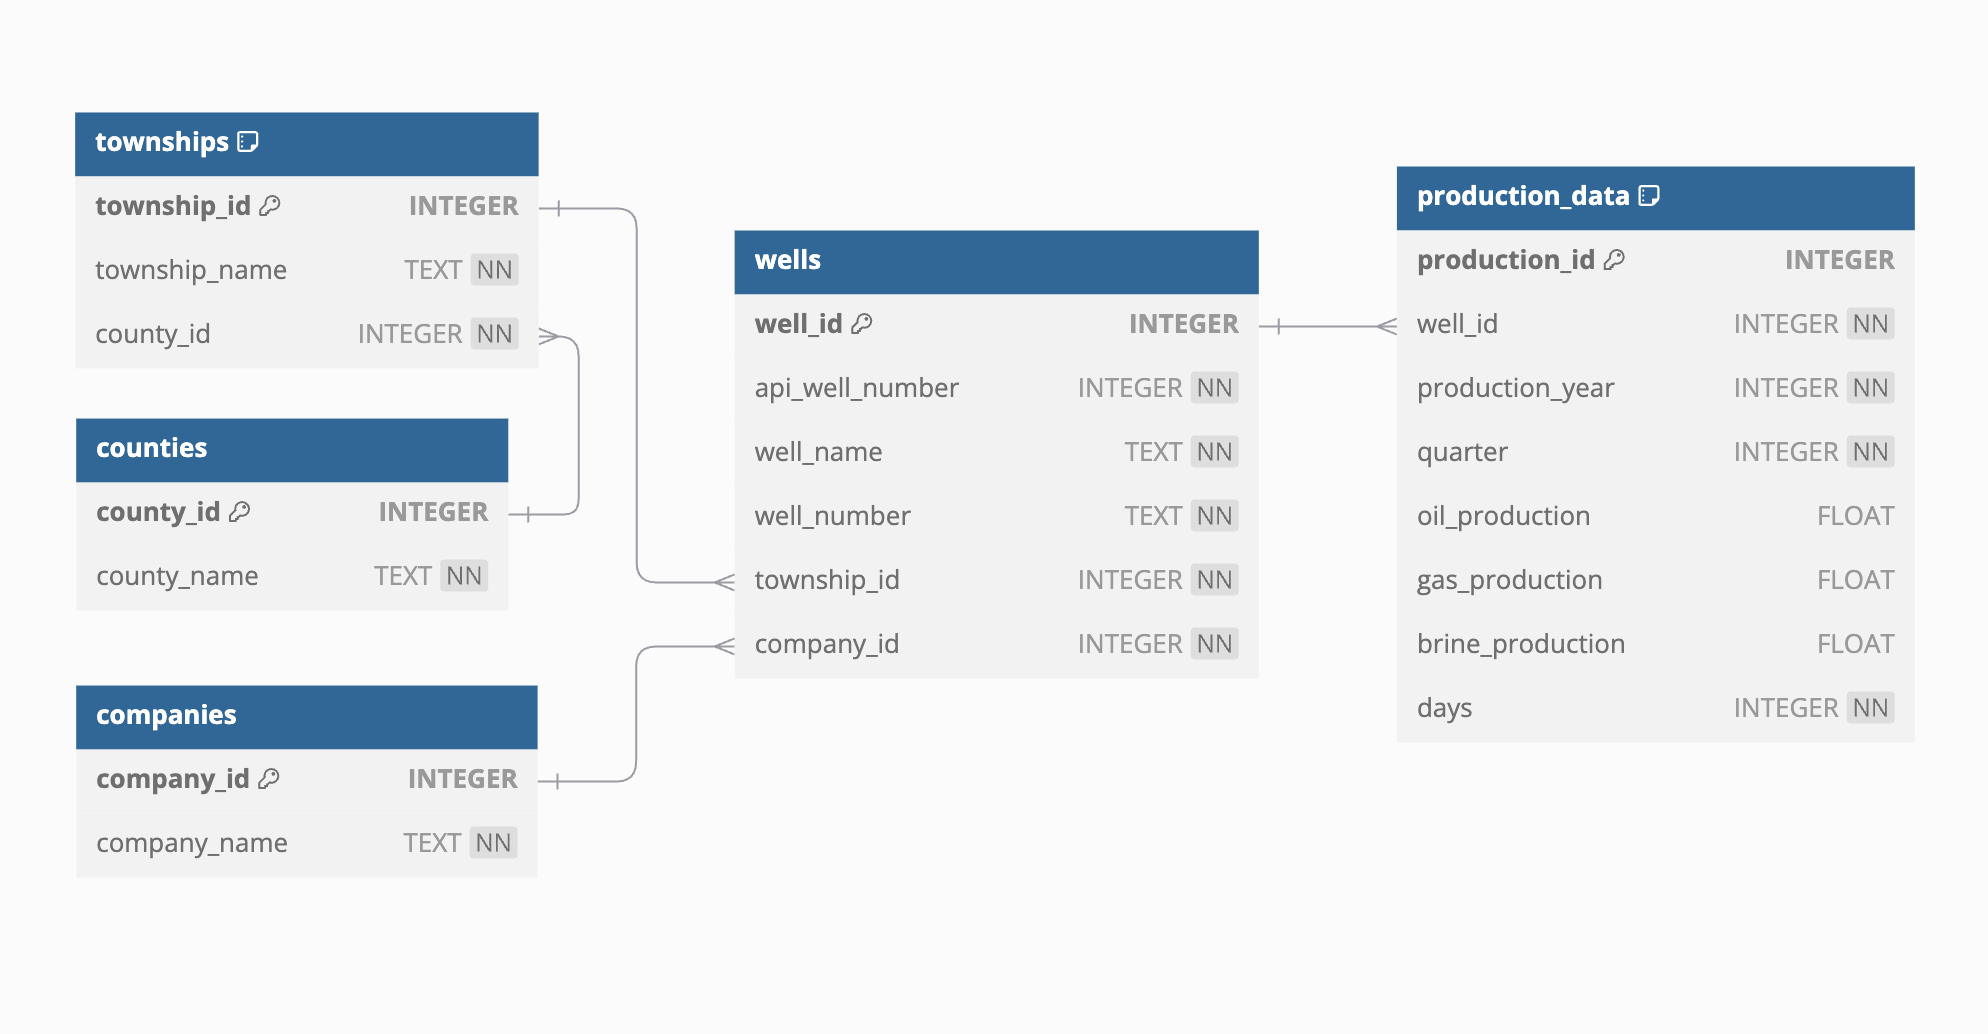
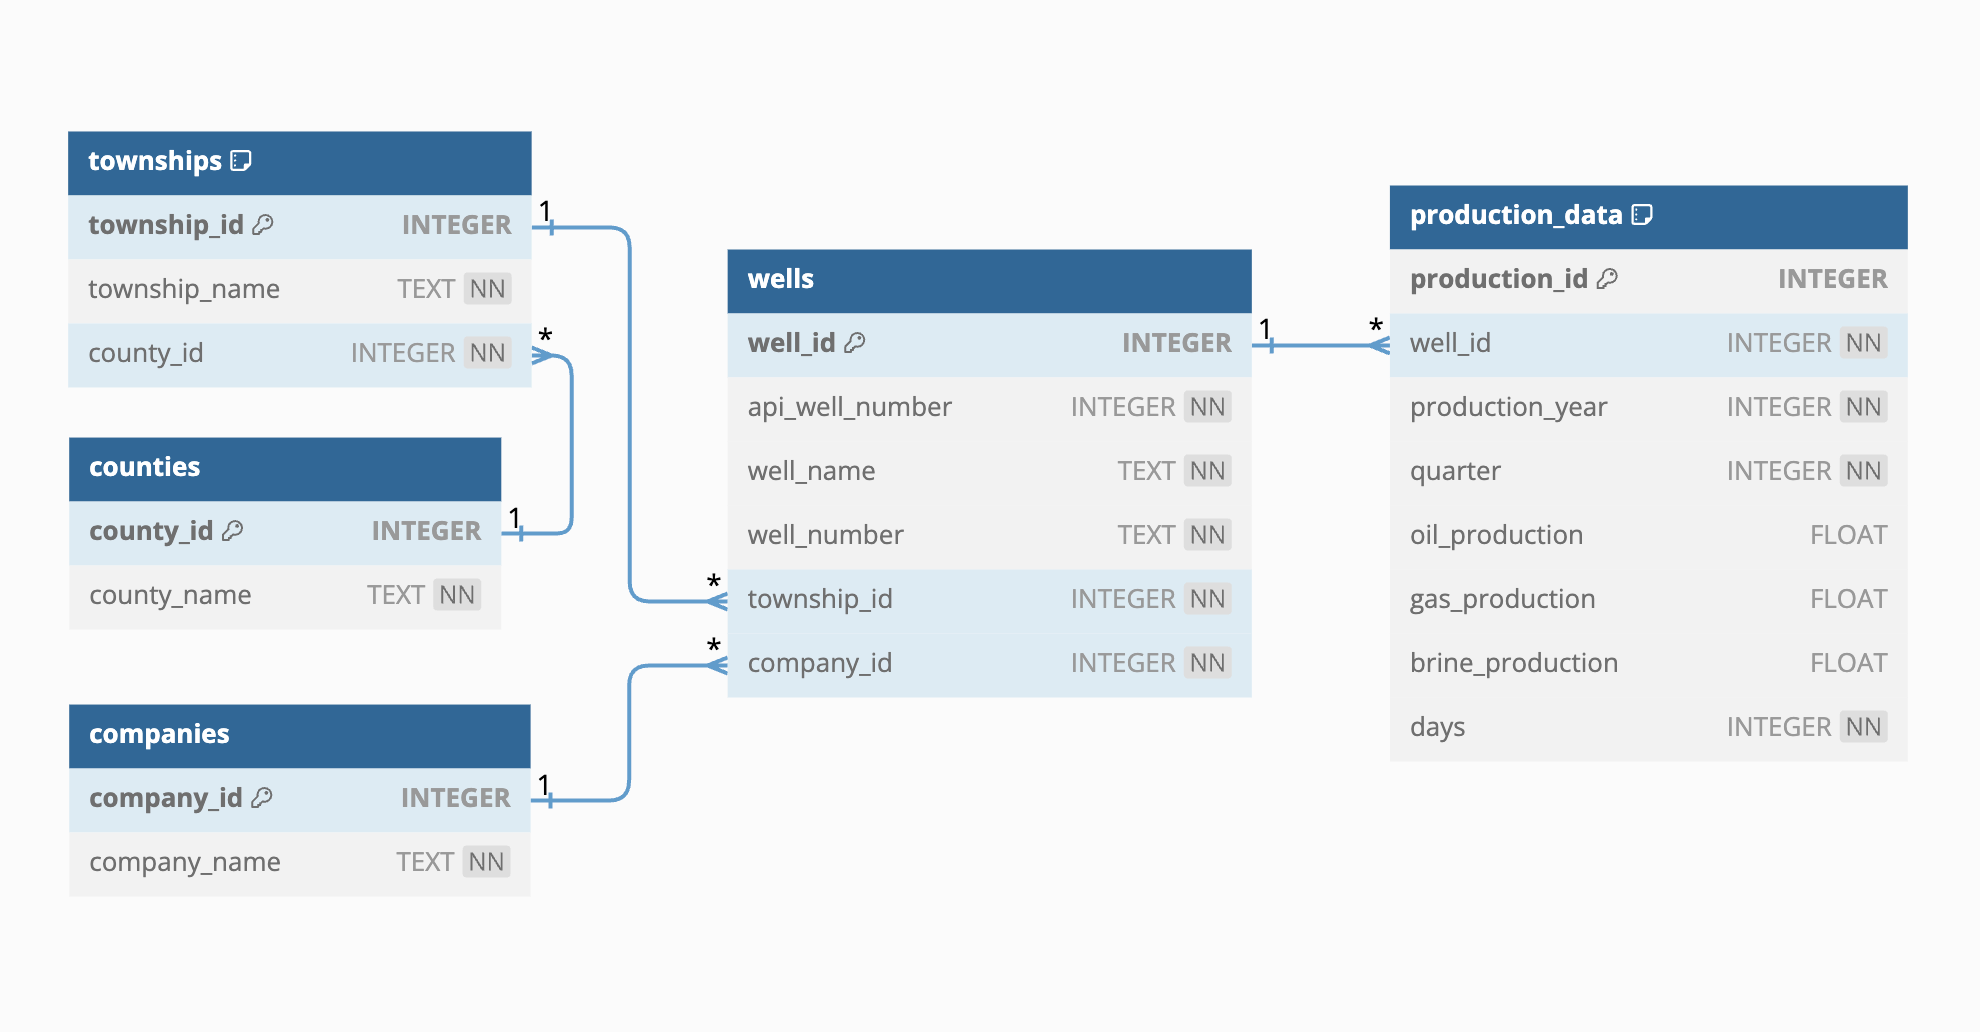
Minor Fixes

diff --git a/src/server.py b/src/server.py
@@ -9,7 +9,7 @@ check_and_load_db()
 
 app = Flask(__name__)
 
-@app.route("/data")
+@app.route("/data", methods=['GET'])
 def get_well_data():
 
     well_api_number = request.args.get("well") 

diff --git a/README.md b/README.md
@@ -17,6 +17,7 @@ Flask server to retrive and return annual production data for oil, gas, and brin
 1. [Overview](#overview)   
 2. [Local Installation](#installation)  
 3. [Database Schema](#Database_Schema)  
+3. [Deployments](#Deployments)  
 
 
 
@@ -44,8 +45,20 @@ python3 main.py
 
 ## **Database_Schema**
 
-> Notification System:
+> Excel data is normalised into different tables based on the below schema
 <p align="center">
-  <img src="https://raw.githubusercontent.com/Jerryj1127/inerG-demo/main/docs/images/db_schema.png" alt="DB Schema" width="600" />
+  <img src="https://raw.githubusercontent.com/Jerryj1127/inerG-demo/main/docs/images/db_schema.png" alt="DB Schema" width="900" />
 </p>
+
+
+
+## **Deployments**
+
+  https://production-demo.onrender.com/data?well=34059242540000
+
+  This is a working demo of this github repo, hosted on render.com
+
+  >Note 1 : Since it's using free tier, the initial GET call might take upto a minute
+
+  >Note 2:  There's no need to specify the port 8080 here as render.com redirects incoming https traffic on port 443 to open ports of the server, 8080 in this case.
 
